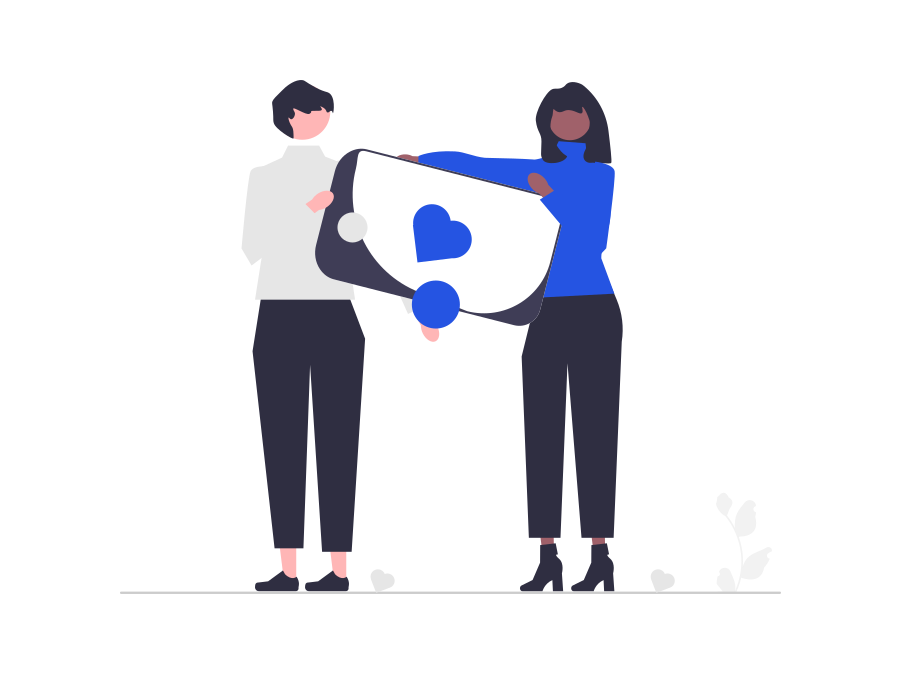
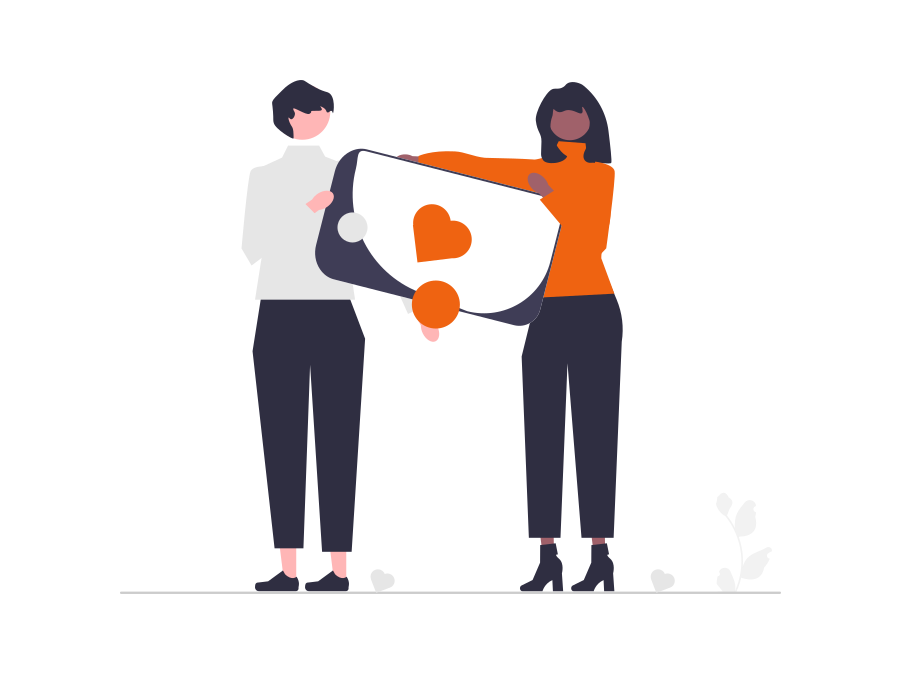
update aesthetics

Changed region(s): [[0.4661, 0.1869, 0.6837, 0.4674], [0.4351, 0.2804, 0.5283, 0.4985]]

diff --git a/src/components/navigation/navigation.js b/src/components/navigation/navigation.js
@@ -3,7 +3,8 @@ export default function NavigationBar() {
   return (
     <div className="flex  flex-wrap place-content-center  bg-white border shadow-md justify-evenly">
       <h1 className="  ml-2 mt-14 text-4xl mr-20 text-blue-900 font-serif text-justify">
-        Local Shelter Donation Inventory
+        Local Shelter <span className=" text-orange-600">Donation</span>{" "}
+        Inventory
       </h1>
       <div className="mt-1">
         <SideImage />

diff --git a/src/components/form/form.js b/src/components/form/form.js
@@ -53,7 +53,7 @@ export default function Form({ addNewDonation }) {
   return (
     <div className=" shadow-lg rounded-md w-fit font-serif m-2 p-1 border bg-white">
       <h3 className="font-bold tracking-wider p-1 m-1 text-blue-900 font-serif">
-        FILL DONOR DETAILS
+        Donor <span className=" text-orange-600">&</span> Donation Details Form
       </h3>
       <form
         onSubmit={handleSubmit}

diff --git a/src/components/Records/records.js b/src/components/Records/records.js
@@ -101,7 +101,7 @@ export default function DonationRecords({ data: initialData }) {
   return (
     <div className=" m-4 shadow-lg rounded-lg p-4 font-serif  border bg-white">
       <h1 className="font-bold tracking-wider p-2 m-2  text-blue-900 font-serif">
-        DONOR LIST
+        DONOR DATA
       </h1>
       <div>
         <table className=" p-2  border-collapse border border-slate-200 text-sm">

diff --git a/public/index.html b/public/index.html
@@ -24,7 +24,7 @@
       work correctly both with client-side routing and a non-root public URL.
       Learn how to configure a non-root public URL by running `npm run build`.
     -->
-    <title>React App</title>
+    <title>Local Shelter Donor Inventory by Radhika Joshi</title>
   </head>
   <body>
     <noscript>You need to enable JavaScript to run this app.</noscript>
